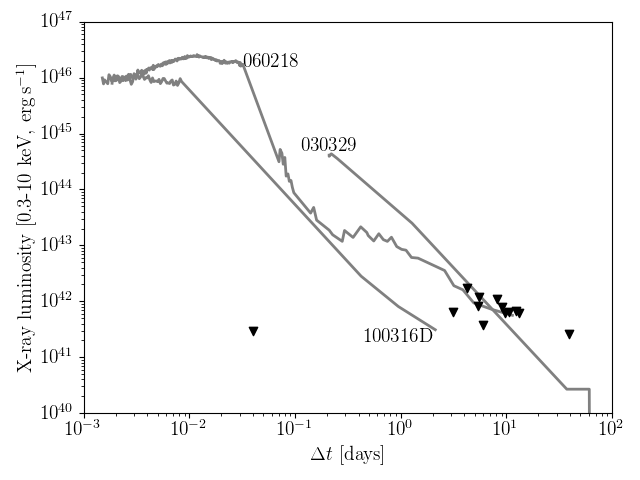
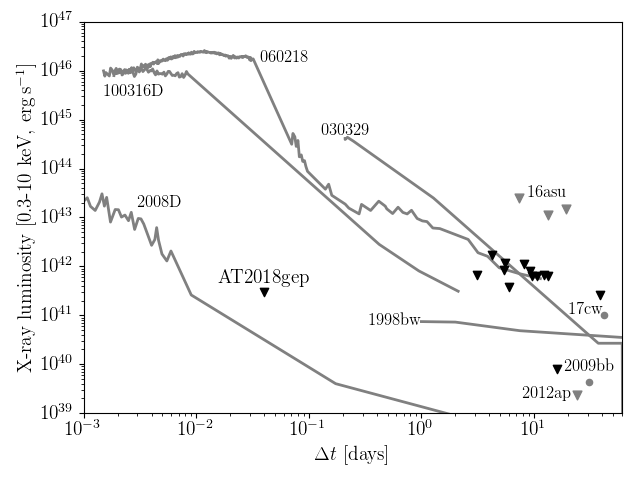
add set of rel SNe to X-ray lc

diff --git a/paper_plots/xray_lc.py b/paper_plots/xray_lc.py
@@ -1,5 +1,3 @@
-""" Show the X-ray limits compared to the iPTF16asu X-ray light curves """
-
 import glob
 import matplotlib.pyplot as plt
 plt.rc("font", family="serif")
@@ -33,10 +31,19 @@ ratio = 3.27E-11 # count-to-flux rate, erg/cm2/ct
 xrtlc = Table.read(
     "/Users/annaho/Dropbox/Projects/Research/ZTF18abukavn/data/from_brad.dat",
     format='ascii')
-dt_sec = xrtlc['col1']
+# Brad's zero-point is: MJD=58370.588137 = 2018 Sep 09 at 14:06:55.064 UT.
+# Our zero-point is 2458370.6473
+# So the difference is 58370.6473-58370.588137 = 0.059163
+dt_sec = xrtlc['col1']+0.059163
 ct = xrtlc['col4']
 lum = ct * ratio * 4 * np.pi * d**2 
-plt.scatter(dt_sec/86400, lum, marker='v', c='k', zorder=5)
+dt_day = dt_sec/86400
+plt.scatter(dt_day, lum, marker='v', c='k', zorder=5)
+plt.text(dt_day[0], lum[0]*1.2, 'AT2018gep', fontsize=14,
+        horizontalalignment='center', verticalalignment='bottom')
+# Chandra
+plt.scatter(16, 3E-15*4*np.pi*d**2, marker='v', c='k', zorder=5)
+
 
 # All the GRBs
 data_dir = "/Users/annaho/Dropbox/Projects/Research/ZTF18abukavn/data/xrtlc"
@@ -50,14 +57,14 @@ dt, lum = plot_lc(f, name="060218")
 plt.text(
     0.06, 1.26E46, "060218", 
     horizontalalignment='center',
-    verticalalignment='bottom', fontsize=14)
+    verticalalignment='bottom', fontsize=12)
 
 f = data_dir + "/100316d_xrt_bin.txt" 
 dt, lum = plot_lc(f, name="100316D")
 plt.text(
-    dt[-1], lum[-1], '100316D', 
-    horizontalalignment='right',
-    verticalalignment='top', fontsize=14)
+    dt[0], lum[0]/2, '100316D', 
+    horizontalalignment='left',
+    verticalalignment='top', fontsize=12)
 
 f = data_dir + "/030329_xray.dat"
 # this one has a different file
@@ -69,10 +76,73 @@ plt.plot(dt, lum, c='grey', lw=2, zorder=1)
 plt.text(
     dt[0], lum[0], '030329',
     horizontalalignment='center',
-    verticalalignment='bottom', fontsize=14)
+    verticalalignment='bottom', fontsize=12)
 
-# need 2009bb
-# need 1998bw
+# Need 2008D
+f = data_dir + "/2008D.txt"
+dat = np.loadtxt(f, dtype=str, delimiter='&', skiprows=1)
+dt_sec = np.array(
+        [string.replace('\xa0', '') for string in dat[:,0]]).astype(float)
+dt_day = dt_sec/86400
+lum = 1E42*np.array(
+        [string.replace('\xa0', '') for string in dat[:,2]]).astype(float)
+elum = 1E42*np.array(
+        [string.replace('\xa0', '') for string in dat[:,3]]).astype(float)
+plt.plot(dt_day, lum, c='grey', lw=2, zorder=1)
+plt.text(
+    3E-3, 2E43, '2008D',
+    horizontalalignment='left',
+    verticalalignment='center', fontsize=12)
+
+# 2009bb
+# Soderberg 2009
+# detection from Chandra
+d_09bb = 40*3.086E24
+plt.scatter(31, 4.4E39, marker='o', c='grey', s=20)
+plt.text(31, 4.4E39*2, "2009bb", fontsize=12,
+        horizontalalignment='center', verticalalignment='center')
+# upper limits from Swift/XRT
+# dt = np.array([5, 19, 23, 31])
+# flim = np.array([1.3E-13, 1.7E-13, 2.5E-13, 3E-13])
+# llim = 4 * np.pi * d_09bb**2 * flim
+# plt.scatter(dt, llim, marker='v', c='grey', s=20)
+# plt.plot(dt, llim, c='grey', lw=2)
+
+# 1998bw
+# The original four points of 980425 reported by Pian et al. (2000)
+# Fig 7b
+d_98bw = 38*3.086E24
+dt = np.array([1, 2, 7.5, 200])
+f = np.array([4.3E-13, 4.2E-13, 2.8E-13, 1.7E-13])
+lum = 4 * np.pi * d_98bw**2 * f
+# Kouvelioutou 2004, Chandra: Day 1281, 1.2E39
+# Sixth point is XMM measurement reported by Pian et al. (2004) from 2002 March 28,
+# but XMM can't resolve two sources, so this luminosity value includes two sources
+# They re-analyzed this data...
+# dt = 1281
+# lum = 1.2E39
+plt.plot(dt, lum, c='grey', lw=2, zorder=1)
+plt.text(
+    dt[0], lum[0], '1998bw',
+    horizontalalignment='right',
+    verticalalignment='center', fontsize=12)
+
+# 16asu limits
+dt = np.array([7.4, 13.4, 19.2])
+llim = np.array([2.5E43, 1.1E43, 1.5E43])
+plt.scatter(dt, llim, marker='v', c='grey', s=40, facecolor='white')
+plt.text(dt[0]*1.2, llim[0], '16asu', horizontalalignment='left', fontsize=12)
+
+# One point for iPTF17cw
+# Chandra: 8 Feb 2017
+plt.scatter(41.8, 1E41, marker='o', c='grey', s=20)
+plt.text(41.8, 1E41, '17cw', fontsize=12, horizontalalignment='right')
+
+# Limits for 2012ap
+plt.scatter(24, 2.4E39, marker='v', c='grey', s=40, facecolor='white')
+plt.text(
+        24/1.1, 2.4E39, '2012ap', verticalalignment='center', 
+        horizontalalignment='right', fontsize=12)
 
 # Formatting
 plt.xlim(1E-3,1E2)
@@ -81,8 +151,10 @@ plt.ylabel(
 r"X-ray luminosity [0.3-10 keV, erg\,s${}^{-1}$]", fontsize=14)
 plt.yscale('log')
 plt.xscale('log')
-plt.ylim(1E40, 1E47)
+plt.ylim(1E39, 1E47)
+plt.xlim(1E-3, 6E1)
 plt.tick_params(axis='both', labelsize=14)
+
 
 plt.tight_layout()
 #plt.show()
